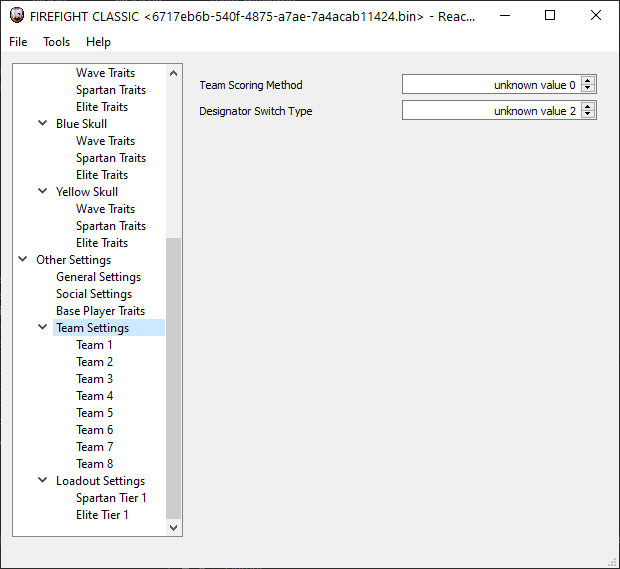
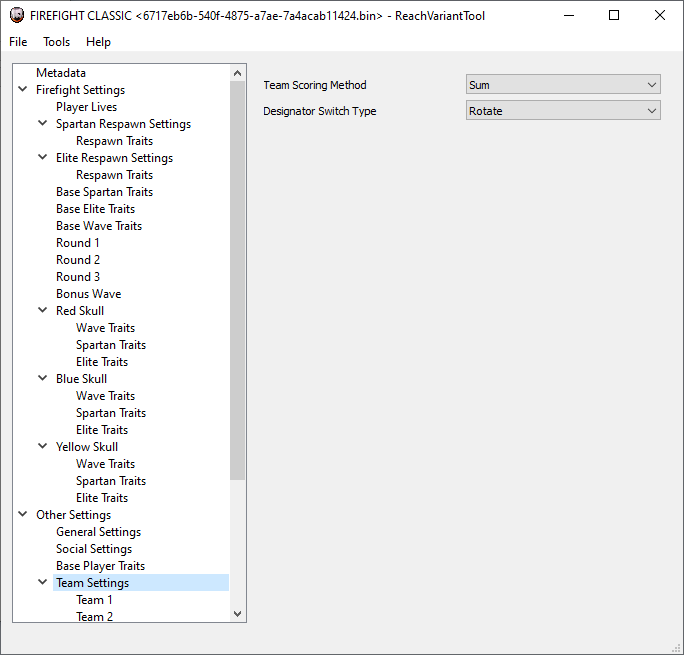
v2.2.4 documentation

diff --git a/script/alias.html b/script/alias.html
@@ -445,6 +445,66 @@ some_helper_function()
          for the entire rest of the script, preventing any other code from reusing them. One fix for  
          this is to nest your functions in whatever blocks of code actually use them.
       </p>
+      
+      <h2>Rules for alias names</h2>
+      <p>
+         An alias's name can't begin with a numeric digit, and can't contain square brackets or 
+         periods.
+      </p>
+      <p>
+         Broadly speaking, an alias can't shadow anything built-in:
+      </p>
+      <pre>
+<span class="comment">--</span>
+<span class="comment">-- These next few rules apply to both relative and absolute aliases, even though </span>
+<span class="comment">-- relative aliases wouldn't *always* shadow built-ins in these cases.</span>
+<span class="comment">--</span>
+
+<span class="comment">-- ERROR: An alias's name can never be the name of a keyword.</span>
+<span class="keyword">alias</span> <span class="keyword">do</span>       = player.number[0] <span class="comment">-- relative will fail</span>
+<span class="keyword">alias</span> <span class="keyword">if</span>       = global.number[0] <span class="comment">-- absolute will fail</span>
+<span class="keyword">alias</span> <span class="keyword">allocate</span> = <span class="keyword">allocate</span> <span class="subkeyword">temporary</span> number <span class="comment">-- fails</span>
+
+<span class="comment">-- ERROR: An alias's name can never be a namespace name.</span>
+<span class="keyword">alias</span> enums = player.number[0] <span class="comment">-- relative will fail</span>
+<span class="keyword">alias</span> game  = global.number[0] <span class="comment">-- absolute will fail</span>
+
+<span class="comment">-- ERROR: An alias's name can never be the name of a built-in type.</span>
+<span class="keyword">alias</span> player        = global.number[0]
+<span class="keyword">alias</span> timer         = global.number[0]
+<span class="keyword">alias</span> script_traits = global.number[0]
+<span class="keyword">alias</span> script_widget = global.number[0]
+
+<span class="comment">--</span>
+<span class="comment">-- The above rules apply even if the alias is relative. The below rules take into </span>
+<span class="comment">-- account whether the alias is relative or absolute.</span>
+<span class="comment">--</span>
+
+<span class="comment">-- ERROR: Shadows non-namespaced built-in values</span>
+<span class="keyword">alias</span> none            = global.number[0] <span class="comment">-- a value for several different types</span>
+<span class="comment">--</span>
+<span class="keyword">alias</span> announce_slayer = global.number[0] <span class="comment">-- a  Sound value</span>
+<span class="keyword">alias</span> box             = global.number[0] <span class="comment">-- a  Shape value</span>
+<span class="keyword">alias</span> enemies         = global.number[0] <span class="comment">-- a  Player Set value</span>
+<span class="keyword">alias</span> warthog         = global.number[0] <span class="comment">-- an Object Type value</span>
+<span class="comment">--</span>
+<span class="comment">-- Note that `alias none = player.number[0]` would succeed, because `player.none` </span>
+<span class="comment">-- doesn't a shadow built-in value name.</span>
+
+<span class="comment">-- ERROR: Shadows action `rand`</span>
+<span class="keyword">alias</span> rand = global.number[0]
+
+<span class="comment">-- ERROR: Shadows action `object.set_waypoint_visibility`</span>
+<span class="keyword">alias</span> set_waypoint_visibility = object.number[0]
+
+<span class="comment">-- ERROR: Shadows condition `object.shape_contains`</span>
+<span class="keyword">alias</span> shape_contains = object.number[0]
+
+<span class="comment">-- ERROR: Shadows property `player.biped`</span>
+<span class="keyword">alias</span> biped = player.number[0]
+
+<span class="comment">-- ERROR: Shadows access to `player.timer` variables</span>
+<span class="keyword">alias</span> timer = player.number[0]</pre>
    
       </main>
       <script src="resources/sidebar.js"></script>

diff --git a/script/api/sound.html b/script/api/sound.html
@@ -585,13 +585,13 @@
                <q>Outstanding, Spartans. We have the package. Let's move.</q>
             </dd>
 
-         <dt data-tag="snd!:sound/dialog/invasion/bone_sp_ph3_defeat">inv_boneyard_vo_spartan_p3_loss</dt>
+         <dt data-tag="snd!:sound/dialog/invasion/bone_sp_ph3_defeat">inv_boneyard_vo_spartan_p4_start</dt>
             <dd>
                An unused voiceover for the Spartans, apparently meant to be played at the start of a fourth phase, in which the Covenant must wait for evac.
                <q>Phantom on approach; do not let them get that core on board, Spartans!</q>
             </dd>
 
-         <dt data-tag="snd!:sound/dialog/invasion/isle_cv_ph3_defeat">inv_spire_vo_covenant_p3_loss</dt>
+         <dt data-tag="snd!:sound/dialog/invasion/isle_cv_ph3_defeat">inv_spire_vo_covenant_p4_start</dt>
             <dd>
                An unused voiceover for the Covenant, apparently meant to be played at the start of a fourth phase, in which the Spartans must wait for evac.
                <q>Damn! The humans have sent for air transport! Do not let them escape!</q>
@@ -621,8 +621,13 @@
          <dt data-tag="snd!:sound/device_machines/omaha/boneyard_generator_power_down">boneyard_generator_power_down</dt>
             <dd>A sound effect originally intended to indicate a generator on Boneyard powering down; it is instead used as the "goal scored" sound effect in Skeeball.</dd>
 
+         <dt>reinforcements</dt>
          <dt data-tag="snd!:sound/dialog/multiplayer/firefight/survival_awarded_lives">firefight_lives_added</dt>
-            <dd>Announcer dialogue for Firefight: when the players are awarded more lives.</dd>
+            <dd>In the original Xbox 360 version of Halo: Reach, this sound name is expected to be announcer dialogue 
+            for Firefight played when players are awarded more lives. In the current Master Chief Collection version 
+            of Halo: Reach, this sound name should play Firefight's "Reinforcements" announcer dialogue. You can 
+            refer to the sound by either name, but which sound plays will depend on where and how your game variant 
+            is being played.</dd>
 
          <dt data-tag="snd!:sound/game_sfx/multiplayer/player_timer_beep">timer_beep</dt>
             <dd>The beep used for the respawn timer.</dd>

diff --git a/script/api/widget-icon.html b/script/api/widget-icon.html
@@ -239,9 +239,9 @@
          <dt>swirl</dt>
             <dd>A swirl icon — the same icon used for what is called "Insane" in legacy Reach and "Action Sack" in MCC.</dd>
          <dt>bunker</dt>
-            <dd>...</dd>
+            <dd>A drawing of a small pillbox bunker, with stylized zoom lines around it.</dd>
          <dt>health_pack</dt>
-            <dd>...</dd>
+            <dd>A small plus-sign inscribed in a hexagon.</dd>
          <dt>castle_defense</dt>
             <dd>A filled-in shield shape, with the silhouette of a castle tower cut out of the middle.</dd>
          <dt>return</dt>
@@ -261,18 +261,19 @@
             <dd>A rounded diamond shape, inside of which is a downward-pointing arrow. Beneath the 
             arrow, between it and the diamond, is a bent line following the diamond's shape.</dd>
          <dt>defend</dt>
-            <dd>...</dd>
+            <dd>A shield with a diagonal crossbar, all wrapped in a circle.</dd>
          <dt>ordnance</dt>
-            <dd>...</dd>
+            <dd>Line-art of a 3D cube, wrapped in a broader outline.</dd>
          <dt>circle</dt>
             <dd>A downward-pointing triangle outline with a small circle drawn inside.</dd>
          <dt>recon</dt>
             <dd>A rounded rectangle, with a targeting reticle drawn inside: four corners of a 
             non-rounded rectangle, and a plus symbol at the center.</dd>
          <dt>recover</dt>
-            <dd>...</dd>
+            <dd>An upward-pointing triangle. Inside of this is an arrow pointing top-left; the "tail" 
+            of the arrow bends to form a circle wrapping around the arrow.</dd>
          <dt>ammo</dt>
-            <dd>...</dd>
+            <dd>Three bullets lined up horizontally in a row, inside a square.</dd>
          <dt>skull</dt>
             <dd>A skull icon, of the variety seen in Campaign and Firefight.</dd>
          <dt>forge</dt>

diff --git a/script/api/object.html b/script/api/object.html
@@ -198,7 +198,7 @@
          There are sixteen global object variables, numbered from 0 to 15, which can
          be accessed as <code>global.object[<var>n</var>]</code>.
       </p>
-   <p>This type contains nested variables. There are 8 nested <a href="script/api/number.html">numbers</a>, 4 nested <a href="script/api/object.html">objects</a>, 4 nested <a href="script/api/player.html">players</a>, 2 nested <a href="script/api/team.html">teams</a>, and 0 nested <a href="script/api/timer.html">timers</a> available. 
+   <p>This type contains nested variables. There are 8 nested <a href="script/api/number.html">numbers</a>, 4 nested <a href="script/api/object.html">objects</a>, 4 nested <a href="script/api/player.html">players</a>, 2 nested <a href="script/api/team.html">teams</a>, and 4 nested <a href="script/api/timer.html">timers</a> available. 
       Note that only 256 objects on the map can have variables at a time; if you try to
       set variables on objects past that limit, Megalo may fail to set variables on the
       new objects, or it may clear variables off of the old objects.
@@ -292,7 +292,8 @@
 <dt><a href="script/api/object/actions/set_pickup_permissions.html">set_pickup_permissions</a></dt>
    <dd><p>Adjust which players can pick up a weapon.</p></dd>
 <dt><a href="script/api/object/actions/set_progress_bar.html">set_progress_bar</a></dt>
-   <dd><p>Set whether an object displays a progress bar, and who should be able to see it.</p></dd>
+   <dd><p>Set whether an object displays a progress bar to certain players when they're 
+            inside of the object's shape volume, and sets which players are eligible to see it.</p></dd>
 <dt><a href="script/api/object/actions/set_scale.html">set_scale</a></dt>
    <dd><p>Resize an object.</p></dd>
 <dt><a href="script/api/object/actions/set_shape.html">set_shape <span class="a-k-a">a.k.a.</span> set_boundary</a></dt>

diff --git a/editor/main_window/options-team.html b/editor/main_window/options-team.html
@@ -200,23 +200,19 @@
       </p>
       <dl>
          <dt>Team Scoring Method</dt>
-            <dd>Unknown. This may be related to the oldest Halo games' options to 
-            control how a team's score was computed from the scores of its players, 
-            but testing is pending. <i>Halo: Reach</i> official files seem to use 
-            the value 0.</dd>
+            <dd>Control whether a team's score is the sum of its members' scores, 
+            or equal to the highest or lowest score among them.</dd>
          <dt>Designator Switch Type</dt>
             <dd>
-               <p>This option controls how teams are remapped across rounds, but the 
-               meanings of its values are unknown.</p>
+               <p>This option controls how teams are remapped across rounds.</p>
                <p>After each round in a match, teams will swap places; for example, in 
                offense/defense game variants with two teams, each team will take turns 
                playing the "defense" role. The game engine takes care of this behavior 
                by remapping teams internally: the gametype script always treats "Red 
                Team" (or <code>team[0]</code> internally) as Defense, and the game 
                engine just lies about which team <em>is</em> "Red Team."</p>
-               <p>This option, then, would presumably determine how teams are remapped. 
-               However, it is impossible to fully test its meanings without gathering 
-               up eight people to play game variants in-game.</p>
+               <p>This option, then, determines whether and how that remapping actually 
+               occurs.</p>
             </dd>
       </dl>
    

diff --git a/script/api/object/actions/set_hidden.html b/script/api/object/actions/set_hidden.html
@@ -152,7 +152,30 @@
 <span class="keyword">for</span> <span class="subkeyword">each</span> <span class="subkeyword">object</span> <span class="subkeyword">with</span> <span class="subkeyword">label</span> <span class="string">"hide</span>" <span class="keyword">do</span>
    current_object.set_hidden(true)
 <span class="keyword">end</span></pre>
-
+<h2>Notes</h2>
+<ul>
+   <li>
+               <p>
+                  Hiding an object will also hide all of the other objects attached to them. Calling 
+                  <code>set_hidden(false)</code> on the attached objects will not override this and 
+                  make them visible again, at least while they're still attached.
+               </p>
+               <p>
+                  The reverse is not true: attaching a hidden object to a non-hidden object will not 
+                  un-hide the former.
+               </p>
+            </li>
+   <li><p>
+               Objects' "hidden" states are tracked independently. If you attach a hidden object to 
+               another, non-hidden object, and then hide and unhide the parent object, the child 
+               object remains hidden.
+            </p></li>
+   <li><p>
+               If an object is hidden because it is attached to an invisible object, such as a Hill 
+               Marker, then calling <code>set_hidden(false)</code> on the attached object will not 
+               override this and reveal the object.
+            </p></li>
+</ul>
       </main>
       <script src="resources/sidebar.js"></script>
       <script src="resources/header-links.js"></script>

diff --git a/editor/main_window/traits.html b/editor/main_window/traits.html
@@ -249,8 +249,11 @@
             <dd>The grenades that the player will spawn with, if they have this set of 
             traits while spawning.</dd>
          <dt>Grenade Regeneration</dt>
-            <dd>If enabled, the player will be given one frag grenade and one plasma 
-            grenade on every fifth second of the round.</dd>
+            <dd>
+               <p>If enabled, the player will be given one frag grenade and one plasma 
+               grenade on every fifth second of the round.</p>
+               <p>Note that this option has no effect when used in Firefight.</p>
+            </dd>
          <dt>Weapon Pickup</dt>
             <dd>Controls whether the player is allowed to pick up weapons, grenades, 
             and Armor Abilities.</dd>
@@ -275,10 +278,9 @@
             <dd>Scales the player's Jump Height. The "Unchanged" value is "below" zero.</dd>
          <dt>Player Gravity</dt>
             <dd>Scales the player's gravity.</dd>
-         <dt>Unknown</dt>
-            <dd>Community reverse-engineering efforts identify this as enabling or 
-            disabling the ability to double-jump, but testing fails to produce the 
-            expected result.</dd>
+         <dt>Double Jump (Unused)</dt>
+            <dd>This option was intended to control the player's ability to double-jump. 
+            However, in testing, it has no effect.</dd>
          <dt>Vehicle Use</dt>
             <dd>Controls whether the player can enter vehicles, and which seats they 
             can enter.</dd>

diff --git a/editor/main_window_ff/traits.html b/editor/main_window_ff/traits.html
@@ -249,8 +249,11 @@
             <dd>The grenades that the player will spawn with, if they have this set of 
             traits while spawning.</dd>
          <dt>Grenade Regeneration</dt>
-            <dd>If enabled, the player will be given one frag grenade and one plasma 
-            grenade on every fifth second of the round.</dd>
+            <dd>
+               <p>If enabled, the player will be given one frag grenade and one plasma 
+               grenade on every fifth second of the round.</p>
+               <p>Note that this option has no effect when used in Firefight.</p>
+            </dd>
          <dt>Weapon Pickup</dt>
             <dd>Controls whether the player is allowed to pick up weapons, grenades, 
             and Armor Abilities.</dd>
@@ -275,10 +278,9 @@
             <dd>Scales the player's Jump Height. The "Unchanged" value is "below" zero.</dd>
          <dt>Player Gravity</dt>
             <dd>Scales the player's gravity.</dd>
-         <dt>Unknown</dt>
-            <dd>Community reverse-engineering efforts identify this as enabling or 
-            disabling the ability to double-jump, but testing fails to produce the 
-            expected result.</dd>
+         <dt>Double Jump (Unused)</dt>
+            <dd>This option was intended to control the player's ability to double-jump. 
+            However, in testing, it has no effect.</dd>
          <dt>Vehicle Use</dt>
             <dd>Controls whether the player can enter vehicles, and which seats they 
             can enter.</dd>

diff --git a/editor/main_window_ff/options-team.html b/editor/main_window_ff/options-team.html
@@ -200,17 +200,19 @@
       </p>
       <dl>
          <dt>Team Scoring Method</dt>
-            <dd>Unknown. This may be related to the oldest Halo games' options to 
-            control how a team's score was computed from the scores of its players, 
-            but testing is pending. <i>Halo: Reach</i> official files seem to use 
-            the value 0.</dd>
+            <dd>Control whether a team's score is the sum of its members' scores, 
+            or equal to the highest or lowest score among them.</dd>
          <dt>Designator Switch Type</dt>
             <dd>
-               <p>This option controls how teams are remapped across rounds, but the 
-               meanings of its values are unknown.</p>
+               <p>This option controls how teams are remapped across rounds.</p>
                <p>After each round in a match, teams will swap places; for example, in 
                offense/defense game variants with two teams, each team will take turns 
-               playing the "defense" role.</p>
+               playing the "defense" role. The game engine takes care of this behavior 
+               by remapping teams internally: the gametype script always treats "Red 
+               Team" (or <code>team[0]</code> internally) as Defense, and the game 
+               engine just lies about which team <em>is</em> "Red Team."</p>
+               <p>This option, then, determines whether and how that remapping actually 
+               occurs.</p>
             </dd>
       </dl>
    

diff --git a/script/api/player.html b/script/api/player.html
@@ -201,12 +201,12 @@
          There are eight global player variables, numbered from 0 to 7, which can 
          be accessed as <code>global.player[<var>n</var>]</code>.
       </p>
-   <p>This type contains nested variables. There are 8 nested <a href="script/api/number.html">numbers</a>, 4 nested <a href="script/api/object.html">objects</a>, 4 nested <a href="script/api/player.html">players</a>, 4 nested <a href="script/api/team.html">teams</a>, and 0 nested <a href="script/api/timer.html">timers</a> available.</p>
+   <p>This type contains nested variables. There are 8 nested <a href="script/api/number.html">numbers</a>, 4 nested <a href="script/api/object.html">objects</a>, 4 nested <a href="script/api/player.html">players</a>, 4 nested <a href="script/api/team.html">teams</a>, and 4 nested <a href="script/api/timer.html">timers</a> available.</p>
 <h2>Properties</h2>
 <dl><dt><a href="script/api/player/properties/biped.html">biped</a></dt>
    <dd><p>The player's current biped.</p></dd>
 <dt><a href="script/api/player/properties/money.html">money</a></dt>
-   <dd><p>The player's money, to spend on requisitings as part of an unimplemented gameplay system.</p></dd>
+   <dd><p>The player's money, to spend on requisitions as part of an unimplemented gameplay system.</p></dd>
 <dt><a href="script/api/player/properties/rating.html">rating</a></dt>
    <dd><p>The player's Arena rating.</p></dd>
 <dt><a href="script/api/player/properties/score.html">score</a></dt>

diff --git a/script/syntax.html b/script/syntax.html
@@ -190,14 +190,17 @@
       <main>
          <h1>Basic syntax</h1>
       <p>
-         Only Bungie and 343 Industries know what Megalo "truly" looks like. However, community 
-         reverse-engineers have figured out Megalo's bytecode. This makes it possible for members 
-         of the public to design their own script languages which compile to the same bytecode... 
-         and this is what has been done for ReachVariantTool.
+         Back when ReachVariantTool was made, only Bungie and 343 Industries knew what Megalo 
+         truly looked like. However, community reverse-engineers figured out Megalo's bytecode, 
+         and this made it possible for members of the public to design their own script languages 
+         that compile to the same bytecode. That is what was done for ReachVariantTool. Since 
+         then, 343 Industries released MegaloEdit, an official editor for Megalo which uses the 
+         same language that Bungie used internally.
       </p>
       <p>
-         The RVT dialect of Megalo, then, is loosely inspired by Lua syntax, though there are 
-         quite a few differences such as the use of zero-indexed collections.
+         The RVT dialect of Megalo is loosely inspired by Lua syntax, though there are quite a 
+         few differences such as the use of zero-indexed collections. It is not compatible with 
+         the "true" Megalo language used in MegaloEdit.
       </p>
 
       <h2>Literals</h2>

diff --git a/editor/main_window_ff/scenario.html b/editor/main_window_ff/scenario.html
@@ -231,13 +231,18 @@
          <dt>Generator Spawn Locations</dt>
             <dd>Controls which of a map's three generator spawn locations are used, when 
             fewer than three generators are present.</dd>
-         <dt>Unknown A</dt>
-            <dd>Unknown. Possibly unused.</dd>
+         <dt>Force Reach Beta PvP ("Network Test 1")</dt>
+            <dd>This setting was made available in the Master Chief Collection's mid-July 2023 
+            update. When enabled, it turns on all of the unique features for the Halo: Reach 
+            Beta's "Network Test 1" Generator Defense mode: all NPC AI are disabled, so the 
+            mode becomes exclusively PvP, and some other changes (e.g. to Health Pack spawning) 
+            are made as well.</dd>
          <dt>Unknown B</dt>
             <dd>Unknown. Possibly unused.</dd>
-         <dt>Unknown C</dt>
-            <dd>Unknown. Possibly unused. The default value is 10000; it may be a quantity 
-            of points.</dd>
+         <dt>Bonus Target</dt>
+            <dd>Unused. A quantity of points. This value is exposed to the HaloScript code that 
+            powers Firefight (<code>survival_mode_get_bonus_target</code>), but the script 
+            doesn't actually use it.</dd>
          <dt>Unknown D</dt>
             <dd>Unknown. Possibly unused.</dd>
       </dl>
